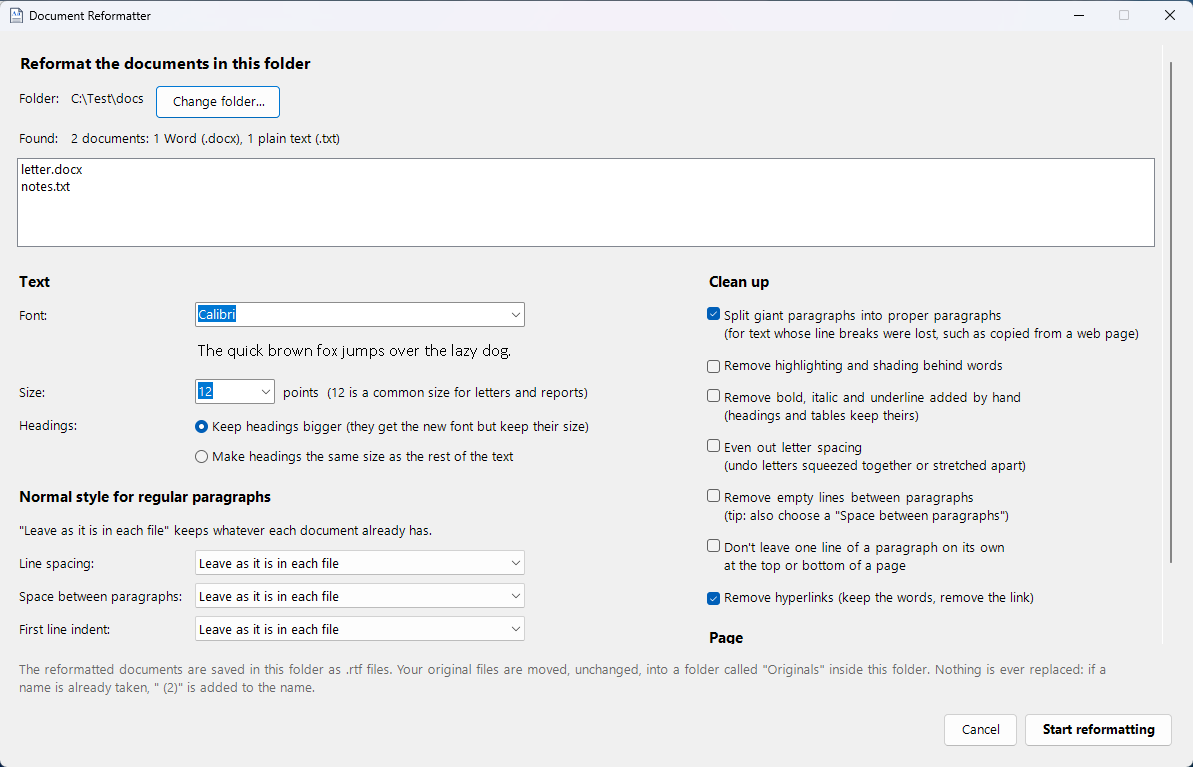
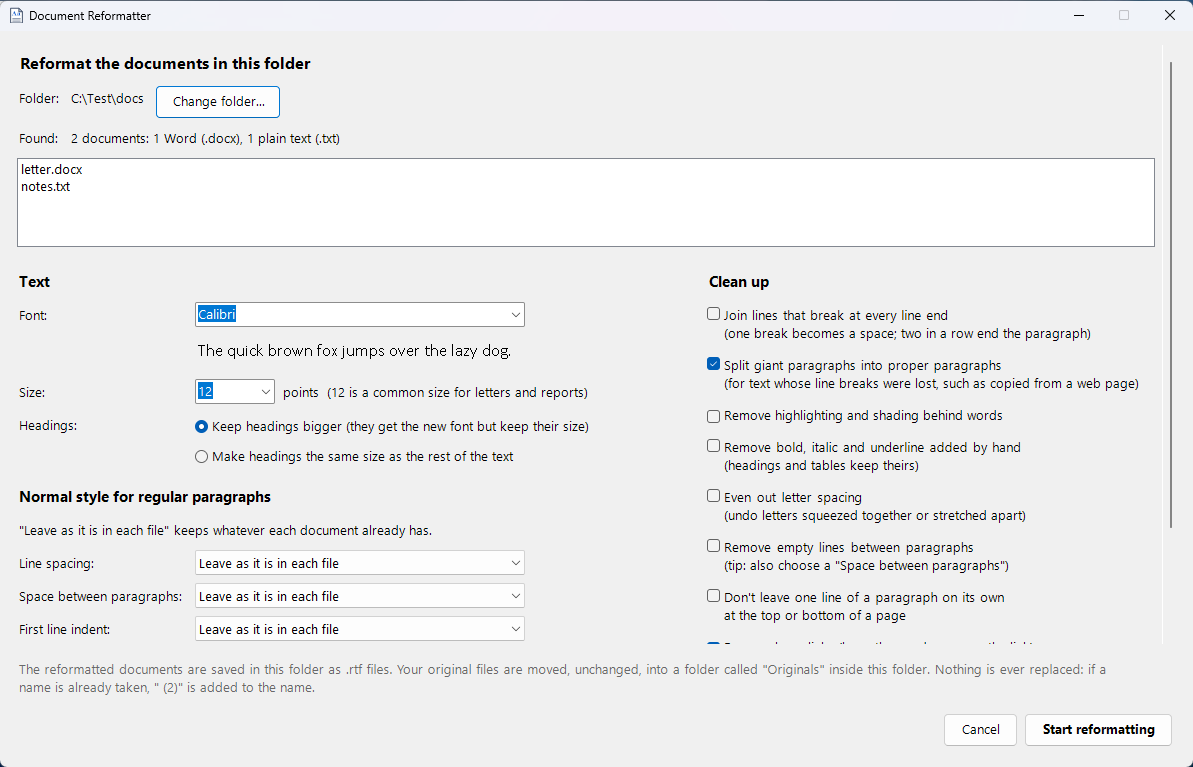
Document Reformatter 1.2.0: README row, PAD file and picture

Changed region(s): [[0.5893, 0.3898, 0.9614, 0.8396]]

diff --git a/README.md b/README.md
@@ -17,7 +17,7 @@ Go to **[Releases](../../releases)** and download the Setup.exe for the app you 
 | Audio Editor | Plays and edits MP3, WAV, FLAC and other sound files on a waveform: cut, copy, paste, change the voice, add effects, record, and save. |
 | Photos to Word | Turns photos of printed pages into Word files you can edit. Pick a folder of photos; the text is read and laid out like the page. |
 | Combine Document Files | Joins Word and RTF files into one, in the order you choose, each keeping its own look. Tick the files to join; save as .docx, .doc, .rtf or PDF. (Called Combine Word Files up to 1.0.1.) |
-| Document Reformatter | Gives every Word, RTF and text file in a folder one new font, size and spacing, and splits giant run-together paragraphs. The originals are kept, unchanged, in an Originals folder. **Needs Microsoft Word.** |
+| Document Reformatter | Gives every Word, RTF and text file in a folder one new font, size and spacing. Joins lines broken at every line end and splits giant run-together paragraphs. The originals are kept, unchanged, in an Originals folder. **Needs Microsoft Word.** |
 | Document Renamer | Renames a folder of files at once: from their first words, old names or your own text, with dates and numbers. Undo puts old names back. |
 | Find and Replace | Changes text in many Word, RTF and text files at once: words, formatting, beginnings, endings and sections between two phrases. Shows every change first. **Needs Microsoft Word for Word and RTF files.** |
 | Cross Folder Compare | Finds the photos and documents two folders have in common, even renamed, resized or re-saved. Can move the extra copies into a REMOVED BY DUPLICATE SCAN folder by one rule (keep the newer, older, bigger, smaller or sharper copy), with Undo. Never deletes anything. |
